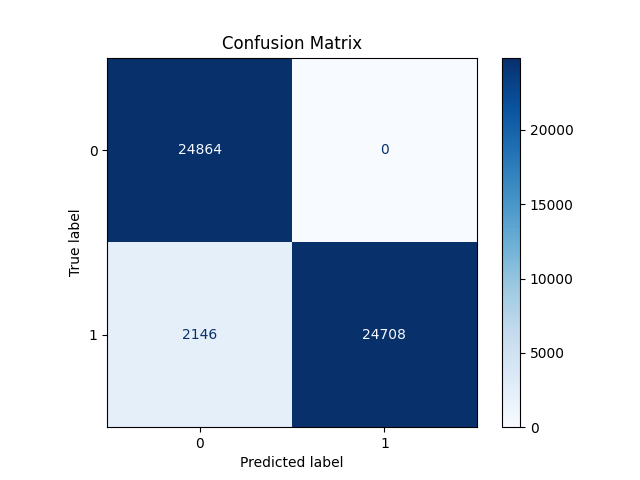
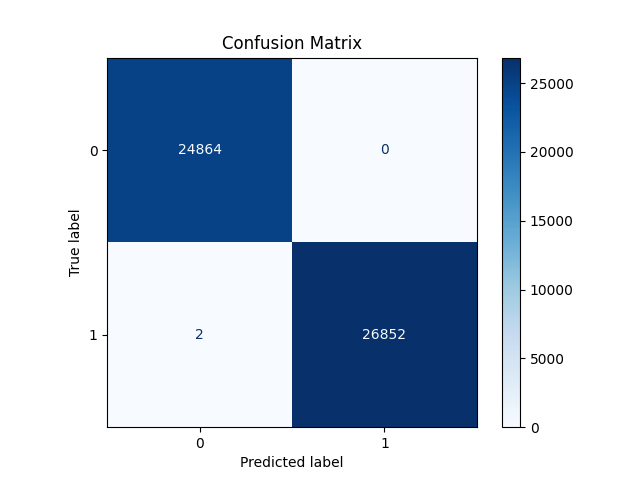
feat: adde login page

diff --git a/static/login.css b/static/login.css
@@ -1,0 +1,211 @@
+body {
+    margin: 0;
+    font-family: Arial, sans-serif;
+    background: linear-gradient(to bottom, #dcb882, #b17438);
+    display: flex;
+    justify-content: center;
+    align-items: center;
+    height: 100vh;
+    flex-direction: column;
+    overflow: hidden;
+}
+
+header {
+    width: 100%;
+    display: flex;
+    justify-content: center;
+    align-items: center;
+    padding: 20px 40px;
+    position: absolute;
+    top: 0;
+}
+
+.logo {
+    position: absolute;
+    left: 45px;
+    top: 5px;
+}
+
+.logo img {
+    width: 50px;
+    height: 50px;
+}
+.header-title h1 {
+    margin: 0;
+    font-size: 60px;
+    color: #ffffff;
+    font-weight: bold;
+}
+
+.container {
+    width: 400px;
+    padding: 20px;
+    background-color: white;
+    border-radius: 15px;
+    box-shadow: 0 0 10px rgba(0, 0, 0, 0.1);
+    margin-top: 100px; /* To adjust the container position below the header */
+}
+
+.login-form h2 {
+    text-align: center;
+    color: #ff8c00;
+    margin-bottom: 20px;
+}
+
+.login-form form {
+    display: flex;
+    flex-direction: column;
+}
+
+.login-form input[type="email"],
+.login-form input[type="password"] {
+    padding: 10px;
+    margin-bottom: 15px;
+    border-radius: 5px;
+    border: 1px solid #ccc;
+    font-size: 16px;
+}
+
+.remember-me {
+    display: flex;
+    align-items: center;
+    margin-bottom: 20px;
+}
+
+.remember-me input {
+    margin-right: 10px;
+}
+
+button {
+    padding: 10px;
+    background-color: #a36332;
+    color: white;
+    border: none;
+    border-radius: 5px;
+    cursor: pointer;
+    font-size: 16px;
+}
+
+button:hover {
+    background-color: #8c5526;
+}
+
+.login-form p {
+    text-align: center;
+    font-size: 14px;
+    margin-top: 10px;
+}
+
+.login-form a {
+    color: #0000ee;
+    text-decoration: none;
+}
+
+.login-form a:hover {
+    text-decoration: underline;
+}body {
+    margin: 0;
+    font-family: Arial, sans-serif;
+    background: linear-gradient(to bottom, #dcb882, #b17438);
+    display: flex;
+    justify-content: center;
+    align-items: center;
+    height: 100vh;
+    flex-direction: column;
+    overflow: hidden;
+}
+
+header {
+    width: 100%;
+    display: flex;
+    justify-content: center;
+    align-items: center;
+    padding: 20px 40px;
+    position: absolute;
+    top: 0;
+}
+
+.logo {
+    position: absolute;
+    left: 45px;
+    top: 5px;
+}
+
+.logo img {
+    width: 50px;
+    height: 50px;
+}
+.header-title h1 {
+    margin: 0;
+    font-size: 60px;
+    color: #ffffff;
+    font-weight: bold;
+}
+
+.container {
+    width: 400px;
+    padding: 20px;
+    background-color: white;
+    border-radius: 15px;
+    box-shadow: 0 0 10px rgba(0, 0, 0, 0.1);
+    margin-top: 100px; /* To adjust the container position below the header */
+}
+
+.login-form h2 {
+    text-align: center;
+    color: #ff8c00;
+    margin-bottom: 20px;
+}
+
+.login-form form {
+    display: flex;
+    flex-direction: column;
+}
+
+.login-form input[type="email"],
+.login-form input[type="password"] {
+    padding: 10px;
+    margin-bottom: 15px;
+    border-radius: 5px;
+    border: 1px solid #ccc;
+    font-size: 16px;
+}
+
+.remember-me {
+    display: flex;
+    align-items: center;
+    margin-bottom: 20px;
+}
+
+.remember-me input {
+    margin-right: 10px;
+}
+
+button {
+    padding: 10px;
+    background-color: #a36332;
+    color: white;
+    border: none;
+    border-radius: 5px;
+    cursor: pointer;
+    font-size: 16px;
+}
+
+button:hover {
+    background-color: #8c5526;
+}
+
+.login-form p {
+    text-align: center;
+    font-size: 14px;
+    margin-top: 10px;
+}
+
+.login-form a {
+    color: #0000ee;
+    text-decoration: none;
+}
+
+.login-form a:hover {
+    text-decoration: underline;
+}

diff --git a/templates/authentication/login.html b/templates/authentication/login.html
@@ -1,0 +1,35 @@
+{% load static %}
+<!DOCTYPE html>
+<html lang="en">
+<head>
+    <meta charset="UTF-8">
+    <meta name="viewport" content="width=device-width, initial-scale=1.0">
+    <title>Smart Auction - Login</title>
+    <link rel="stylesheet" href="{% static 'login.css' %}">
+</head>
+<body>
+    <header>
+        <div class="logo">
+            <img src="{% static '' %}" alt="Smart Auction Logo">
+        </div>
+        <div class="header-title">
+            <h1>Auction System</h1>
+        </div>
+    </header>
+    <div class="container">
+        <div class="login-form">
+            <h2>Login In</h2>
+            <form>
+                <input type="email" placeholder="Email" required>
+                <input type="password" placeholder="Password" required>
+                <div class="remember-me">
+                    <input type="checkbox" id="remember">
+                    <label for="remember">Remember me</label>
+                </div>
+                <button type="submit">Login</button>
+                <p>Don’t have an account? <a href="#">Register</a></p>
+            </form>
+        </div>
+    </div>
+</body>
+</html>

diff --git a/model/Train.py b/model/Train.py
@@ -1,7 +1,5 @@
 import pandas as pd
 from model.LogisticRegression import LogisticRegression
-from sklearn.linear_model import LogisticRegression as SklearnLogisticRegression
-from sklearn.metrics import accuracy_score
 
 
 def change_bool_to_number(row):
@@ -21,8 +19,7 @@ def clean_csv(df):
 def main():
     df = pd.read_csv('data/train_dataset.csv')
     df = clean_csv(df)
-    breakpoint()
-    model = LogisticRegression()
+    model = LogisticRegression(learning_rate=0.01, num_iterations=1000)
     X_train = df[["SellerAuctionCount", "SellerAuctionSaleCount"]].values
     Y_train = df["is_fraud"].values
     model.fit(X_train, Y_train)
@@ -36,21 +33,8 @@ def main():
     Y_test = test_data["is_fraud"].values
     predictions = model.predict(X_test)
     model.plot_confusion_matrix(Y_test, predictions)
-    # print(model.calculate_accuracy(Y_test, predictions))
-    # while True:
-    #     x = int(input("Auction Count"))
-    #     y = int(input("Sells count"))
-    #     print(model.predict([[x, y]]))
-    # model = SklearnLogisticRegression(max_iter=1000)
-
-    # # Train the model
-    # model.fit(X_train, Y_train)
-    # # Make predictions on the test data
-    # predictions = model.predict(X_test)
-
-    # # Calculate accuracy
-    # accuracy = accuracy_score(Y_test, predictions)
-    # print("Test Accuracy:", accuracy)
-    # print(model.predict([[120, 100]]))
-    # print(model.predict([[120, 50]]))
-    # print(model.predict([[120, 10]]))
+    print(model.calculate_accuracy(Y_test, predictions))
+    while True:
+        x = int(input("Auction Count"))
+        y = int(input("Sells count"))
+        print(model.predict([[x, y]]))

diff --git a/model/LogisticRegression.py b/model/LogisticRegression.py
@@ -5,7 +5,7 @@ from sklearn.metrics import confusion_matrix, ConfusionMatrixDisplay
 
 
 class LogisticRegression:
-    def __init__(self, learning_rate=0.01, num_iterations=100):
+    def __init__(self, learning_rate=0.01, num_iterations=1000):
         self.learning_rate = learning_rate
         self.num_iterations = num_iterations
         self.weights = None
@@ -21,6 +21,7 @@ class LogisticRegression:
         return -np.mean(y_true * np.log(y_pred + 1e-10) + (1 - y_true) * np.log(1 - y_pred + 1e-10))
 
     def fit(self, X, y):
+        print(self.learning_rate)
         num_samples, num_features = X.shape
         self.weights = np.zeros(num_features)
         self.bias = 0

diff --git a/project/settings.py b/project/settings.py
@@ -60,7 +60,7 @@ AUTH_USER_MODEL = 'app.CustomUser'
 TEMPLATES = [
     {
         'BACKEND': 'django.template.backends.django.DjangoTemplates',
-        'DIRS': [],
+        'DIRS': [BASE_DIR/"templates"],
         'APP_DIRS': True,
         'OPTIONS': {
             'context_processors': [
@@ -122,6 +122,7 @@ USE_TZ = True
 # https://docs.djangoproject.com/en/5.1/howto/static-files/
 
 STATIC_URL = 'static/'
+STATIC_ROOT = os.path.join(BASE_DIR, 'static')
 
 # Default primary key field type
 # https://docs.djangoproject.com/en/5.1/ref/settings/#default-auto-field

diff --git a/project/urls.py b/project/urls.py
@@ -16,8 +16,10 @@ Including another URLconf
 """
 from django.contrib import admin
 from django.urls import path, include
+from django.conf import settings
+from django.conf.urls.static import static
 
 urlpatterns = [
     path('admin/', admin.site.urls),
     path('', include('app.urls'))
-]
+] + static(settings.STATIC_URL, document_root=settings.STATIC_ROOT)

diff --git a/app/urls.py b/app/urls.py
@@ -1,6 +1,6 @@
 from django.urls import path
-
+from app.views import user_views
 
 urlpatterns = [
-
+    path('login/', user_views.user_login, name='login')
 ]

diff --git a/app/views/user_views.py b/app/views/user_views.py
@@ -1,0 +1,5 @@
+from django.shortcuts import render
+
+
+def user_login(request):
+    return render(request, 'authentication/login.html')
